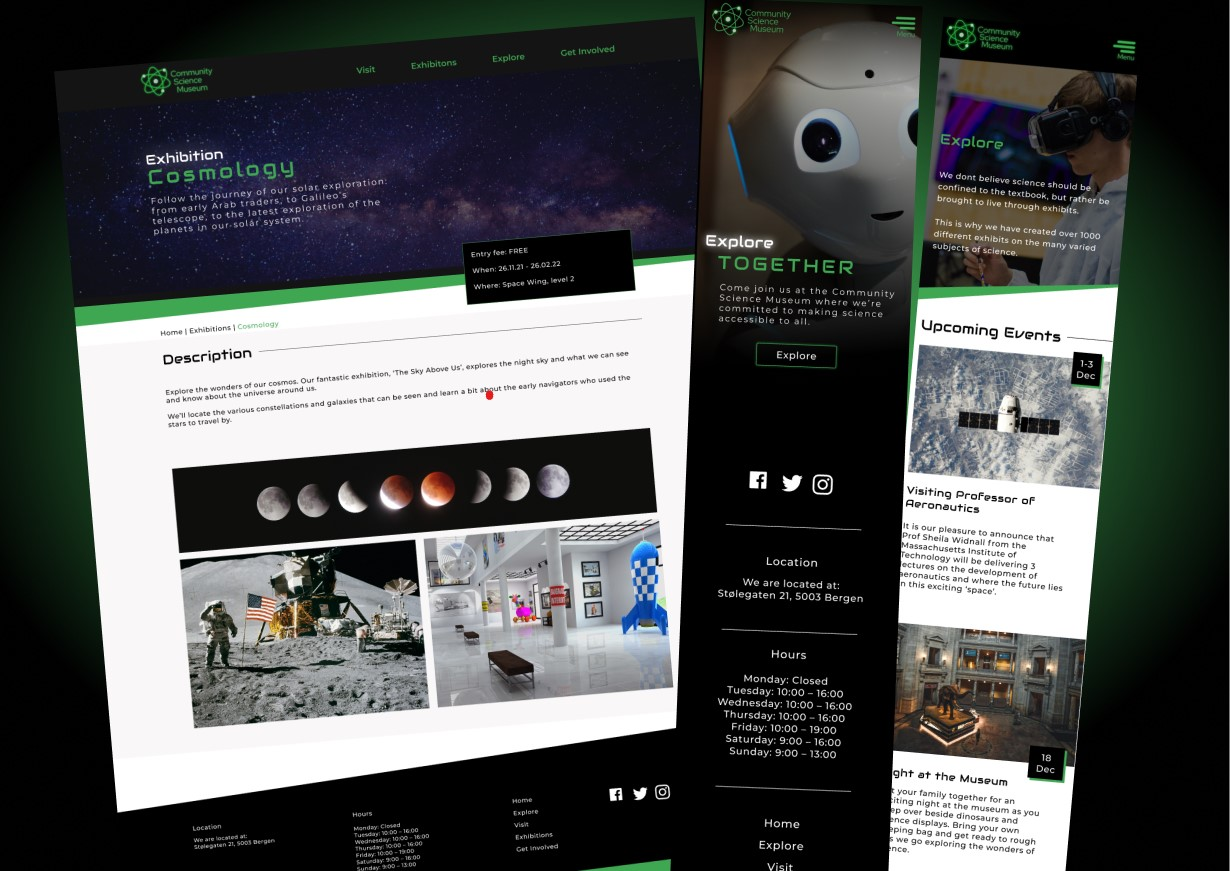
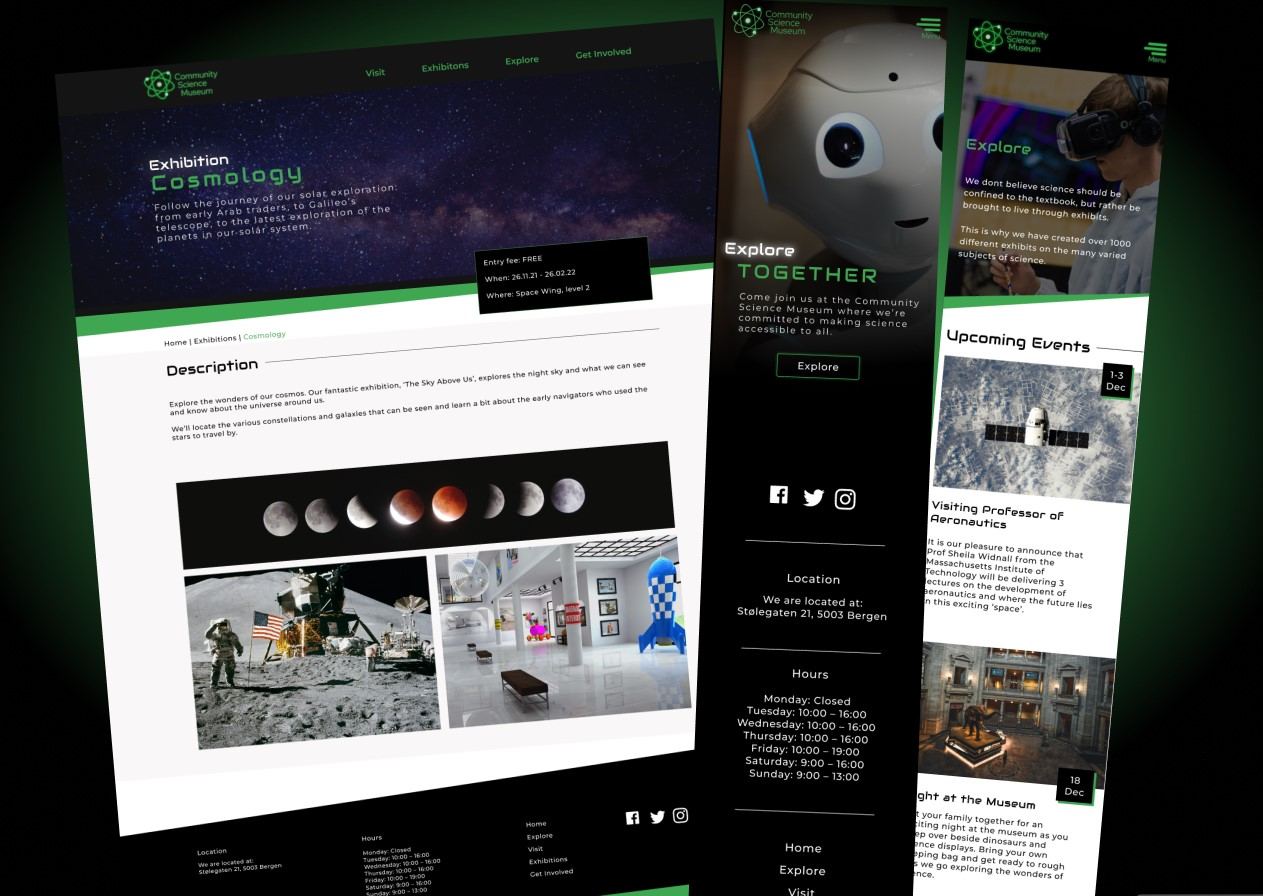
modal

diff --git a/js/script.js b/js/script.js
@@ -50,3 +50,90 @@ logo.addEventListener("click", () => {
         behavior: "smooth"
     })
 })
+
+// Project Modal
+
+const readMore = document.querySelectorAll(".readMore");
+const showModal = document.querySelector(".show-modal");
+const closeModal = document.querySelector("#close-modal");
+
+const modalContainer = document.querySelector("#modal-container");
+
+const hbp = document.querySelector("#modal-content__hpb");
+const modalContent = document.querySelector("#modal__input");
+const rainydays = document.querySelector("#modal-content__rainydays");
+
+readMore.forEach((btn) => {
+    btn.addEventListener("click", () => {
+        console.log(btn);
+
+        modalContainer.style.display = "block";
+
+        if (btn.classList.contains("show-hpb")) {
+            modalContent.innerHTML = `
+            <div>
+                <h1 class="underline">Helt På Bærtur</h1>
+                <div class="modal-text">
+                    <p>This was the school exam for the first year at Noroff. The task was to create a blog about a topic of our own choosing, and give it life using HTML, CSS and JavaScript only. We  were also to use WordPress as a headless CMS, to store the images and blogposts.</p>
+                    <p>I chose to make a travel blog where i wrote about everything outdoorsy, which is something i am passionate about.</p>
+                    <p>During this project, i learned a lot about the fundamentals of JavaScript. We had to implement many elements i had little to none experience with, which was a bit of a challenge. But in the end everything worked it self out, and i had alot more skills in my toolbox of web-creation.</p>
+                </div>        
+                <ul>
+                    <li>HTML</li>
+                    <li>CSS</li>
+                    <li>JavaScript</li>
+                </ul>                 
+                <div class="icons">
+                    <a href="https://github.com/PederZzen/exam1" target="_blank"><img src="./media/github.svg" alt="Github Icon"></a>
+                    <a href="https://heltpabaertur.netlify.app/" target="_blank"><img src="./media//link-to-page.svg" alt="Go to web page icon "></a>
+                </div> 
+            </div>
+            `
+        }
+
+        if (btn.classList.contains("show-csm")) {
+            modalContent.innerHTML = `
+            <div>
+                <h1 class="underline">Community Science Museum</h1>
+                <div class="modal-text">
+                    <p>This was the final project on the first term at Noroff. We were to create the website for a museum, using HTML and CSS. I learned alot about the foundations of web-creation during this project.</p>
+                    <p>Lorem ipsum dolor sit amet consectetur adipisicing elit. Dicta eius a tenetur exercitationem tempore atque veniam esse beatae suscipit, eos quasi sit sapiente repellat porro quis voluptatibus non? Ad quae rerum quod non quo dolores molestiae est vitae tempora vero!</p>
+                </div>        
+                <ul>
+                    <li>HTML</li>
+                    <li>CSS</li>
+                </ul>            
+                <div class="icons">
+                    <a href="https://github.com/PederZzen/Semester_Project_1" target="_blank"><img src="./media/github.svg" alt="Github Icon"></a>
+                    <a href="https://thecsm.netlify.app/" target="_blank"><img src="./media//link-to-page.svg" alt="Go to web page icon "></a>
+                </div>           
+            </div> `
+        } 
+
+        if (btn.classList.contains("show-rainydays")) {
+            modalContent.innerHTML = `
+            <div>
+                <h1 class="underline">RainyDays</h1>
+                <div class="modal-text">
+                    <p>An online store, specialized in selling high quality rain jackets. This was the first big project at Noroff. I learned alot in regards to design during this project. This is where the journey began!</p>
+                    <p>Lorem ipsum dolor sit amet consectetur adipisicing elit. Dicta eius a tenetur exercitationem tempore atque veniam esse beatae suscipit, eos quasi sit sapiente repellat porro quis voluptatibus non? Ad quae rerum quod non quo dolores molestiae est vitae tempora vero!</p>
+                </div>        
+                <ul>
+                    <li>HTML</li>
+                    <li>CSS</li>
+                </ul>        
+                <div class="icons">
+                    <a href="https://github.com/PederZzen/RainyDays" target="_blank"><img src="./media/github.svg" alt="Github Icon"></a>
+                    <a href="https://rainydaysnorway.netlify.app/index.html" target="_blank"><img src="./media//link-to-page.svg" alt="Go to web page icon "></a>
+                </div>
+            </div> `
+        } 
+    })
+})
+
+closeModal.addEventListener("click", () => {
+    modalContent.innerHTML = "";
+    modalContainer.style.display = "none";
+})
+
+ 

diff --git a/index.html b/index.html
@@ -41,9 +41,10 @@
         <section id="about">                
             <div id="about__content" class="max-width">  
                 <div id="about__text">
-                    <h2 class="underline">Who am i?</h2>
-                    <p>Hi my name is Espen, and i am a Web developer from Norway. I am passionate about creating beautiful and responsive solutions for the web.</p>
+                    <h2 class="underline">Who am I?</h2>
+                    <p>Hi my name is Espen, and i am a Web developer from Norway. I am passionate about creating beautiful and modern solutions for the web.</p>
                     <p>Currently i am getting my degree in Front-end Development at Noroff School of Technology and Design, in Bergen.</p>
+                    <p>Keep on scrolling to see the stuff i've made.</p>
                 </div>
                 <div id="about__img">                    
                     <img src="./media/this-guy.svg" id="this-guy" alt="This guy!">
@@ -65,8 +66,8 @@
                         <div class="projects__card__copy">
                             <h3>Helt På Bærtur</h3>
                             <p>This was the school exam for the first year at Noroff. The task was to create a blog about a topic of our own choosing, and give it life using HTML, CSS and JavaScript only. </p>
-                            <p>I chose to make a blog about something i feel passionate about, and that is everything outdoorsy.</p>
-                            <a href="./hpb.html" class="read-more__btn">Read More</a>                                  
+                            <p>I chose to make a travel blog where i wrote about everything outdoorsy, which is something i am passionate about.</p>
+                            <button class="readMore show-hpb">Read More</button>                                  
                         </div>
                     </div>
                     <div class="projects__card">    
@@ -77,7 +78,7 @@
                             <h3>Community Science Museum</h3>
                             <p>This was the final project on the first term at Noroff. We were to create the website for a museum, using HTML and CSS. </p>
                             <p>I learned alot about the foundations of web-creation during this project.</p>
-                            <a href="./csm.html" class="read-more__btn">Read More</a>                                
+                            <button class="readMore show-csm">Read More</button>                                                               
                         </div>              
                     </div>
                     <div class="projects__card">
@@ -88,14 +89,19 @@
                             <h3>RainyDays</h3>
                             <p>An online store, specialized in selling high quality rain jackets. This was the first big project at Noroff. I learned alot in regards to design during this project. </p>
                             <p>This is where the journey began!</p>
-                            <a href="./rainydays.html" class="read-more__btn">Read More</a>                            
+                            <button class="readMore show-rainydays">Read More</button>                                                        
                         </div>
                     </div>
                 </div>
             </div>
         </section>
 
-
+        <section id="modal-container">
+            <div id="modal-content">
+                <div id="modal__input"></div>
+                <button id="close-modal"><img src="./media/close-modal.svg" alt="Close modal icon"></button>
+            </div>               
+        </section>
     </main>
 
     <footer>

diff --git a/styles/style.css b/styles/style.css
@@ -103,7 +103,7 @@ nav {
     display: flex;
     flex-direction: column;
     width: 100%;
-    height: 40rem;
+    height: 30rem;
     padding: 5rem 0;
     z-index: 1;
 }
@@ -268,7 +268,7 @@ footer::after {
     width: 100%;
 }
 
-.read-more__btn {
+.readMore {
     background-color: var(--pink);
     color: var(--white);
     border: none;
@@ -279,11 +279,12 @@ footer::after {
     box-shadow: .3rem .3rem var(--purple);
     display: inline-block;
     text-decoration: none;
+    cursor: pointer;
     transition: .3s;
 }
 
 /* ----------------------------- Project Page ----------------------------------- */
-
+/* 
 .project-page main {
     position: relative;
 }
@@ -294,7 +295,7 @@ footer::after {
 }
 
 .project-page__copy {
-    margin: 4rem 0;
+    margin: 4rem 0 2rem;
     font-size: 1.1rem;
     max-width: 35rem;
 }
@@ -313,10 +314,6 @@ footer::after {
 
 .project-page li {
     margin: 0 2rem 3rem 0 ;
-}
-
-.icons {
-    margin: 3rem 0;
 }
 
 .icons > * {
@@ -342,7 +339,7 @@ footer::after {
 #rainydays .watermark {
     top: 4rem;
     left: -2%;
-}
+} */
 
 
 /* ----------------------------- Footer ----------------------------------- */
@@ -445,19 +442,86 @@ footer h4 {
         margin: 10rem auto;
     }
 
+    /* ----------------------------- Modal ------------------------------------------ */
+
+    #modal-container {
+        background: rgba(0, 0, 0, 0.8);
+        display: none;
+        position: fixed;
+        top: 0;
+        width: 100%;
+        height: 100%;
+        transition: all .5s;
+        z-index: 99;
+    }
+
+    #modal-content {
+        background: var(--white);
+        height: 90%;
+        width: 70%;
+        max-width: 800px;
+        position: relative;
+        top: 50%;
+        left: 50%;
+        transform: translate(-50%, -50%);
+        padding: 2rem;
+        overflow: hidden;
+        border-radius: 1rem;
+    }
+
+    .modal-text {
+        margin-top: 2rem;
+    }
+
+    #modal-content h1 {
+        position: relative;
+    }
+
+    #modal-container ul {
+        position: absolute;
+        bottom: 0;
+        list-style-type: none;
+        font-weight: 800;
+        display: flex;
+        gap: 2rem;
+        margin: 2rem 0;
+    }
+
+
+    #close-modal {
+        position: absolute;
+        top: 2rem;
+        right: 2rem;
+        cursor: pointer;
+        background: transparent;
+        border: none;
+    }
+
+    .icons {
+        display: flex;
+        gap: 1rem;
+        position: absolute;
+        bottom: 1.5rem;
+        right: 2rem;
+    }
+
+    #close-modal img {
+        width: 1.5rem;
+    }
+
     /* ----------------------------- Project Page ----------------------------------- */
 
-    #rainydays .watermark {
-        left: 0;
+    /* #rainydays .watermark {
+        left: -0.5rem;
     }
 
     #hbp .watermark {
-        left: 0;
+        left: -0.5rem;
     }
     
     #csm .watermark {
-        left: 0;
-    }
+        left: -0.5rem;
+    } */
 
 }
 
@@ -553,12 +617,12 @@ footer h4 {
 
     /* ----------------------------- Project Page ----------------------------------- */
 
-    #project-page__content {
+    /* #project-page__content {
         display: grid;
         grid-template-columns: repeat(2, 1fr);
     }
 
     .project__image {
         margin-top: 10rem;
-    }
+    } */
 }

diff --git a/hpb.html b/hpb.html
@@ -22,22 +22,22 @@
                 <img src="./media/hpb-watermark.svg" class="watermark" alt="A watermark">
                 <h1 class="underline">Helt På Bærtur</h1>
                 <div class="project-page__copy">
-                    <p>This was the school exam for the first year at Noroff. The task was to create a blog about a topic of our own choosing, and give it life using HTML, CSS and JavaScript only. I chose to make a blog about something i feel passionate about, and that is everything outdoorsy.</p>
-                    <p>I learned alot about the mechanics of JavaScript during this project</p>
+                    <p>This was the school exam for the first year at Noroff. The task was to create a blog about a topic of our own choosing, and give it life using HTML, CSS and JavaScript only. We  were also to use WordPress as a headless CMS, to store the images and blogposts.</p>
+                    <p>I chose to make a travel blog where i wrote about everything outdoorsy, which is something i am passionate about.</p>
+                    <p>During this project, i learned a lot about the fundamentals of JavaScript. We had to implement many elements i had little to none experience with, which was a bit of a challenge. But in the end everything worked it self out, and i had alot more skills in my toolbox of web-creation.</p>
                 </div>        
                 <ul>
                     <li>HTML</li>
                     <li>CSS</li>
                     <li>JavaScript</li>
-                </ul>            
-            </div>
-            <div>
-                <img src="./media/hpb-thumbnail.jpg" class="project__image" alt="A picture of the helt på bærtur web page">
-
+                </ul>                 
                 <div class="icons">
                     <a href="https://github.com/PederZzen/exam1" target="_blank"><img src="./media/github.svg" alt="Github Icon"></a>
                     <a href="https://heltpabaertur.netlify.app/" target="_blank"><img src="./media//link-to-page.svg" alt="Go to web page icon "></a>
                 </div>            
+            </div>
+            <div>
+                <img src="./media/hpb-thumbnail.jpg" class="project__image" alt="A picture of the helt på bærtur web page">
             </div>            
         </section>
     </main>
